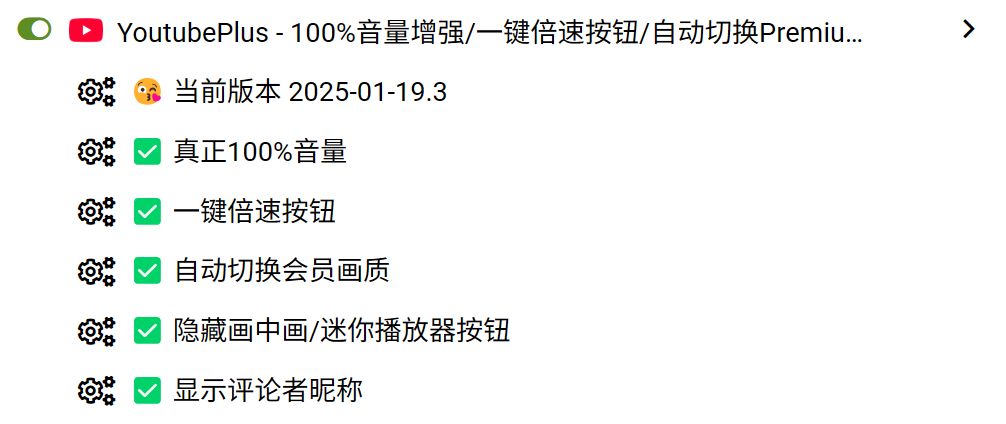
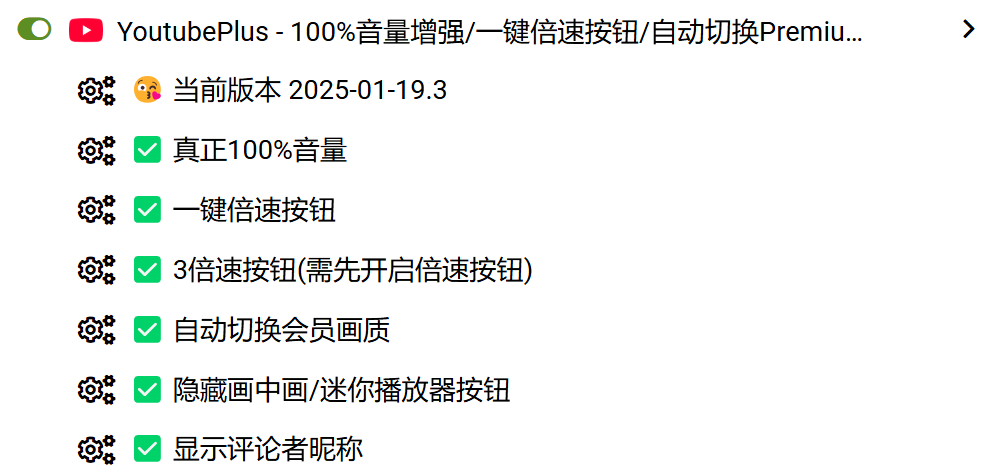
修复会员画质兼容性问题；修复删除迷你播放器、剧场模式按钮功能失效问题；增加3x倍速按钮

diff --git a/script.js b/script.js
@@ -2,7 +2,7 @@
 // @name         YoutubePlus - 100%音量增强/一键倍速按钮/自动切换Premium画质/删除迷你播放器按钮
 // @namespace    https://github.com/xlch88/YoutubePlus
 // @author       Dark495 (https://dark495.me/)
-// @version      2025-01-19.3
+// @version      2025-01-24
 // @license      WTFPL
 // @description  增强Youtube使用体验
 // @author       Dark495
@@ -31,6 +31,10 @@
 		speedButton: {
 			name: "一键倍速按钮",
 			enable: true,
+		},
+		speed3Button: {
+			name: "3倍速按钮(需先开启倍速按钮)",
+			enable: false,
 		},
 		premiumQuality: {
 			name: "自动切换会员画质",
@@ -63,7 +67,7 @@
 					insert: true,
 					setParent: true,
 				});
-			})
+			}),
 		);
 
 		for (const [key, info] of Object.entries(functions)) {
@@ -93,6 +97,14 @@
 				}
 				break;
 
+			case "speed3Button":
+				if (functions.speed3Button.enable) {
+					document.body.classList.add("ytp-show-speed3button");
+				} else {
+					document.body.classList.remove("ytp-show-speed3button");
+				}
+				break;
+
 			case "premiumQuality":
 				if (functions.premiumQuality.enable) {
 					switchToPremiumQuality();
@@ -103,9 +115,7 @@
 				if (functions.hidePiPButton.enable) {
 					hidePiPButton();
 				} else {
-					document.querySelector(".ytp-pip-button").style.display = "";
-					document.querySelector(".ytp-miniplayer-button").style.display = "";
-					document.querySelector(".ytp-size-button").style.display = "";
+					document.body.classList.remove("ytp-hide-pip-button");
 				}
 				break;
 
@@ -171,12 +181,24 @@
 			span.ytp-speed-button-2x::after{
 				content: "2x";
 			}
+			span.ytp-speed-button-3x{
+				display: none;
+			}
+			span.ytp-speed-button-3x::after{
+				content: "3x";
+			}
 			
 			.yt-plus-nickname{ color: #0f0f0f; }
 			.yt-plus-username{ color: rgba(0, 0, 0, 0.4); margin-left: 5px; }
 			ytd-author-comment-badge-renderer[creator] .yt-plus-nickname{ color:unset; }
 			ytd-author-comment-badge-renderer[creator] .yt-plus-username{ color:unset; opacity: 0.4; }
+			
+			body.ytp-hide-pip-button .ytp-pip-button{ display:none!important; }
+			body.ytp-hide-pip-button .ytp-miniplayer-button{ display:none!important; }
+			body.ytp-hide-pip-button .ytp-size-button{ display:none!important; }
+			body.ytp-show-speed3button .ytp-speed-button-3x{ display:flex; }
 		`;
+
 		document.head.appendChild(style);
 	}
 
@@ -239,9 +261,7 @@
 	}
 
 	function hidePiPButton() {
-		document.querySelector(".ytp-pip-button").style.display = "none";
-		document.querySelector(".ytp-miniplayer-button").style.display = "none";
-		document.querySelector(".ytp-size-button").style.display = "none";
+		document.body.classList.add("ytp-hide-pip-button");
 	}
 
 	function setVolume() {
@@ -259,34 +279,34 @@
 	}
 
 	function switchToPremiumQuality() {
-		function openQualityList() {
-			if (document.querySelector(".ytp-settings-shown")) {
-				document.querySelector(".ytp-settings-button").click();
-				document.querySelector(".ytp-settings-button").click();
-			} else {
-				document.querySelector(".ytp-settings-button").click();
-			}
+		const qualityList = [];
+		if (unsafeWindow?.ytInitialPlayerResponse?.playabilityStatus?.paygatedQualitiesMetadata?.qualityDetails) {
+			unsafeWindow.ytInitialPlayerResponse.playabilityStatus.paygatedQualitiesMetadata.qualityDetails.forEach((v) => {
+				qualityList.push(v.key);
+			});
 
+			console.log("[YoutubePlus]", "获取到会员画质列表:", qualityList);
+		} else {
+			console.log("[YoutubePlus]", "此视频无会员画质或未开通会员。");
+		}
+
+		const nowQuality = document.querySelector("#movie_player").getPlaybackQualityLabel().replace(" Premium", ""); // 嗯，会骗，实际上根本就没切
+		console.log("[YoutubePlus]", "当前画质:", nowQuality);
+		if (qualityList.includes(`${nowQuality} Premium`)) {
+			document.querySelector(".ytp-settings-button").click();
 			if (!document.querySelector(".ytp-quality-menu")) {
 				document.querySelector(".ytp-panel-menu .ytp-menuitem:last-of-type").click();
 			}
-		}
 
-		openQualityList();
-		const qualityList = {};
-		document.querySelector(".ytp-quality-menu .ytp-panel-menu").childNodes.forEach((v, i) => {
-			const name = v.querySelector("span").firstChild.textContent.trim();
+			const qualityList = {};
+			document.querySelector(".ytp-quality-menu .ytp-panel-menu").childNodes.forEach((v, i) => {
+				const name = v.querySelector("span").firstChild.textContent.trim();
 
-			qualityList[name] = i;
-		});
+				qualityList[name] = i;
+			});
 
-		const nowQuality = document.querySelector("#movie_player").getPlaybackQualityLabel();
-		if (!nowQuality.includes("Premium") && Object.keys(qualityList).includes(`${nowQuality} Premium`)) {
-			openQualityList();
 			document.querySelector(".ytp-quality-menu .ytp-panel-menu").childNodes[qualityList[`${nowQuality} Premium`]].click();
-		} else {
-			document.querySelector(".ytp-settings-button").click();
-			if (document.querySelector(".ytp-tooltip")) document.querySelector(".ytp-tooltip").style.display = "none";
+			console.log("[YoutubePlus]", "切换到画质:", `${nowQuality} Premium`);
 		}
 	}
 
@@ -302,19 +322,26 @@
 		const speedButtonDiv = document.createElement("div");
 		speedButtonDiv.className = "ytp-speed-button";
 		const speedButtons = [];
-		for (let speed of [0.5, 1, 1.5, 2]) {
+		for (let speed of [0.5, 1, 1.5, 2, 3]) {
 			const speedButton = document.createElement("span");
 			speedButton.className = `ytp-speed-button ytp-speed-button-${speed.toString().replace(".", "")}x`;
 			speedButtonDiv.appendChild(speedButton);
 			speedButton.onclick = () => {
-				document.querySelector("#movie_player").setPlaybackRate(speed);
-				sessionStorage.setItem(
-					"yt-player-playback-rate",
-					JSON.stringify({
-						data: speed.toString(),
-						creation: new Date().getTime(),
-					})
-				);
+				if (speed > 2) {
+					player.playbackRate = speed;
+					console.log("[YoutubePlus]", "超级倍速:", speed);
+				} else {
+					player.playbackRate = speed; // 设置为3倍速后需要用这个还原
+					console.log("[YoutubePlus]", "普通倍速:", speed);
+					document.querySelector("#movie_player").setPlaybackRate(speed);
+					sessionStorage.setItem(
+						"yt-player-playback-rate",
+						JSON.stringify({
+							data: speed.toString(),
+							creation: new Date().getTime(),
+						}),
+					);
+				}
 				speedButtons.forEach((v) => {
 					v.classList.remove("ytp-speed-button-active");
 				});
@@ -347,6 +374,9 @@
 				}
 				if (functions.hidePiPButton.enable) {
 					hidePiPButton();
+				}
+				if (functions.speed3Button.enable) {
+					document.body.classList.add("ytp-show-speed3button");
 				}
 			}
 
